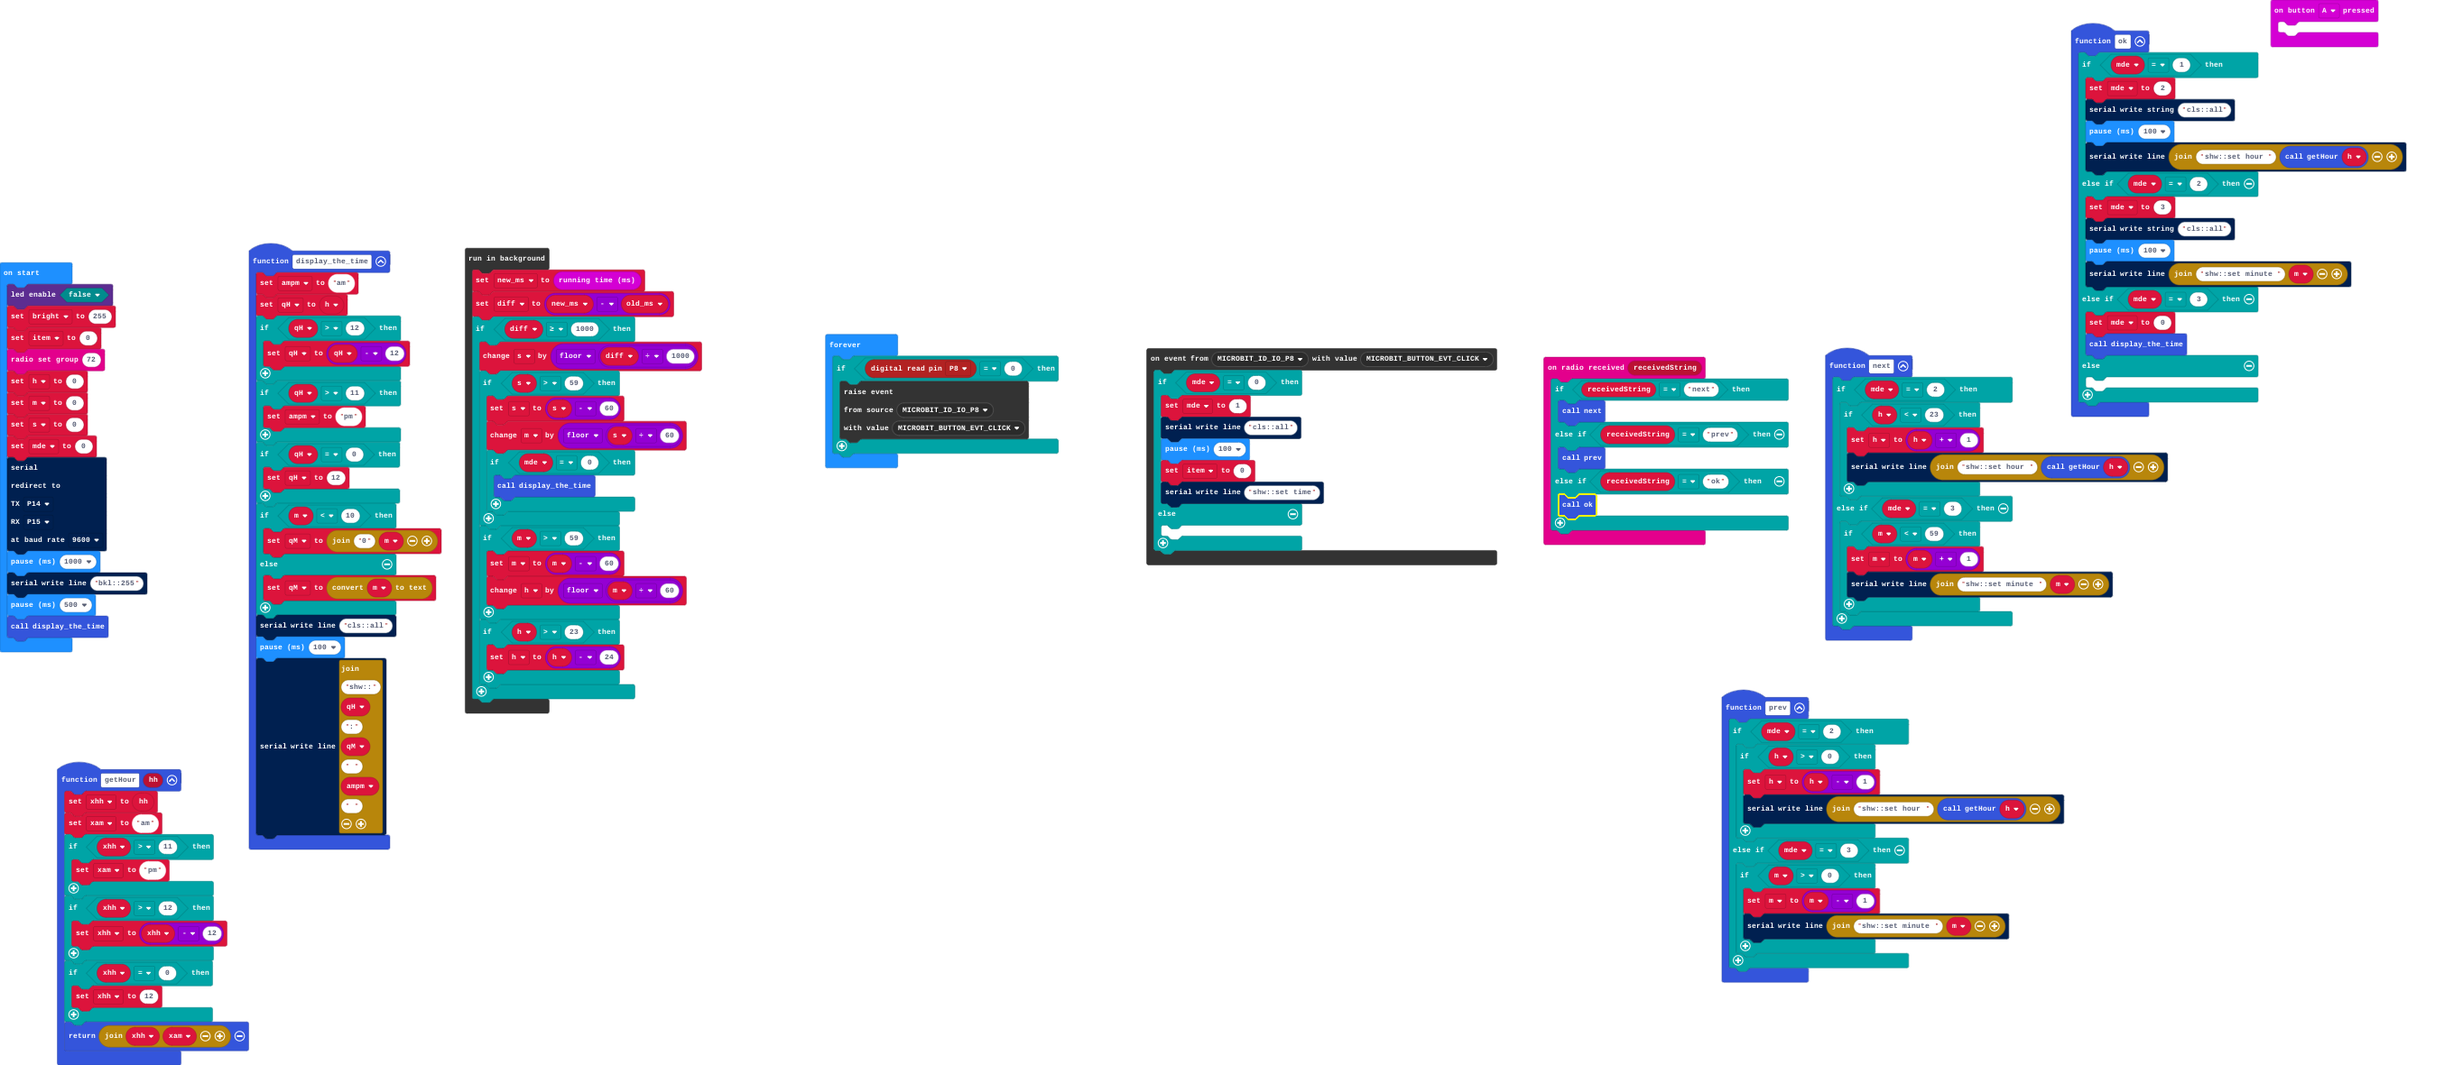
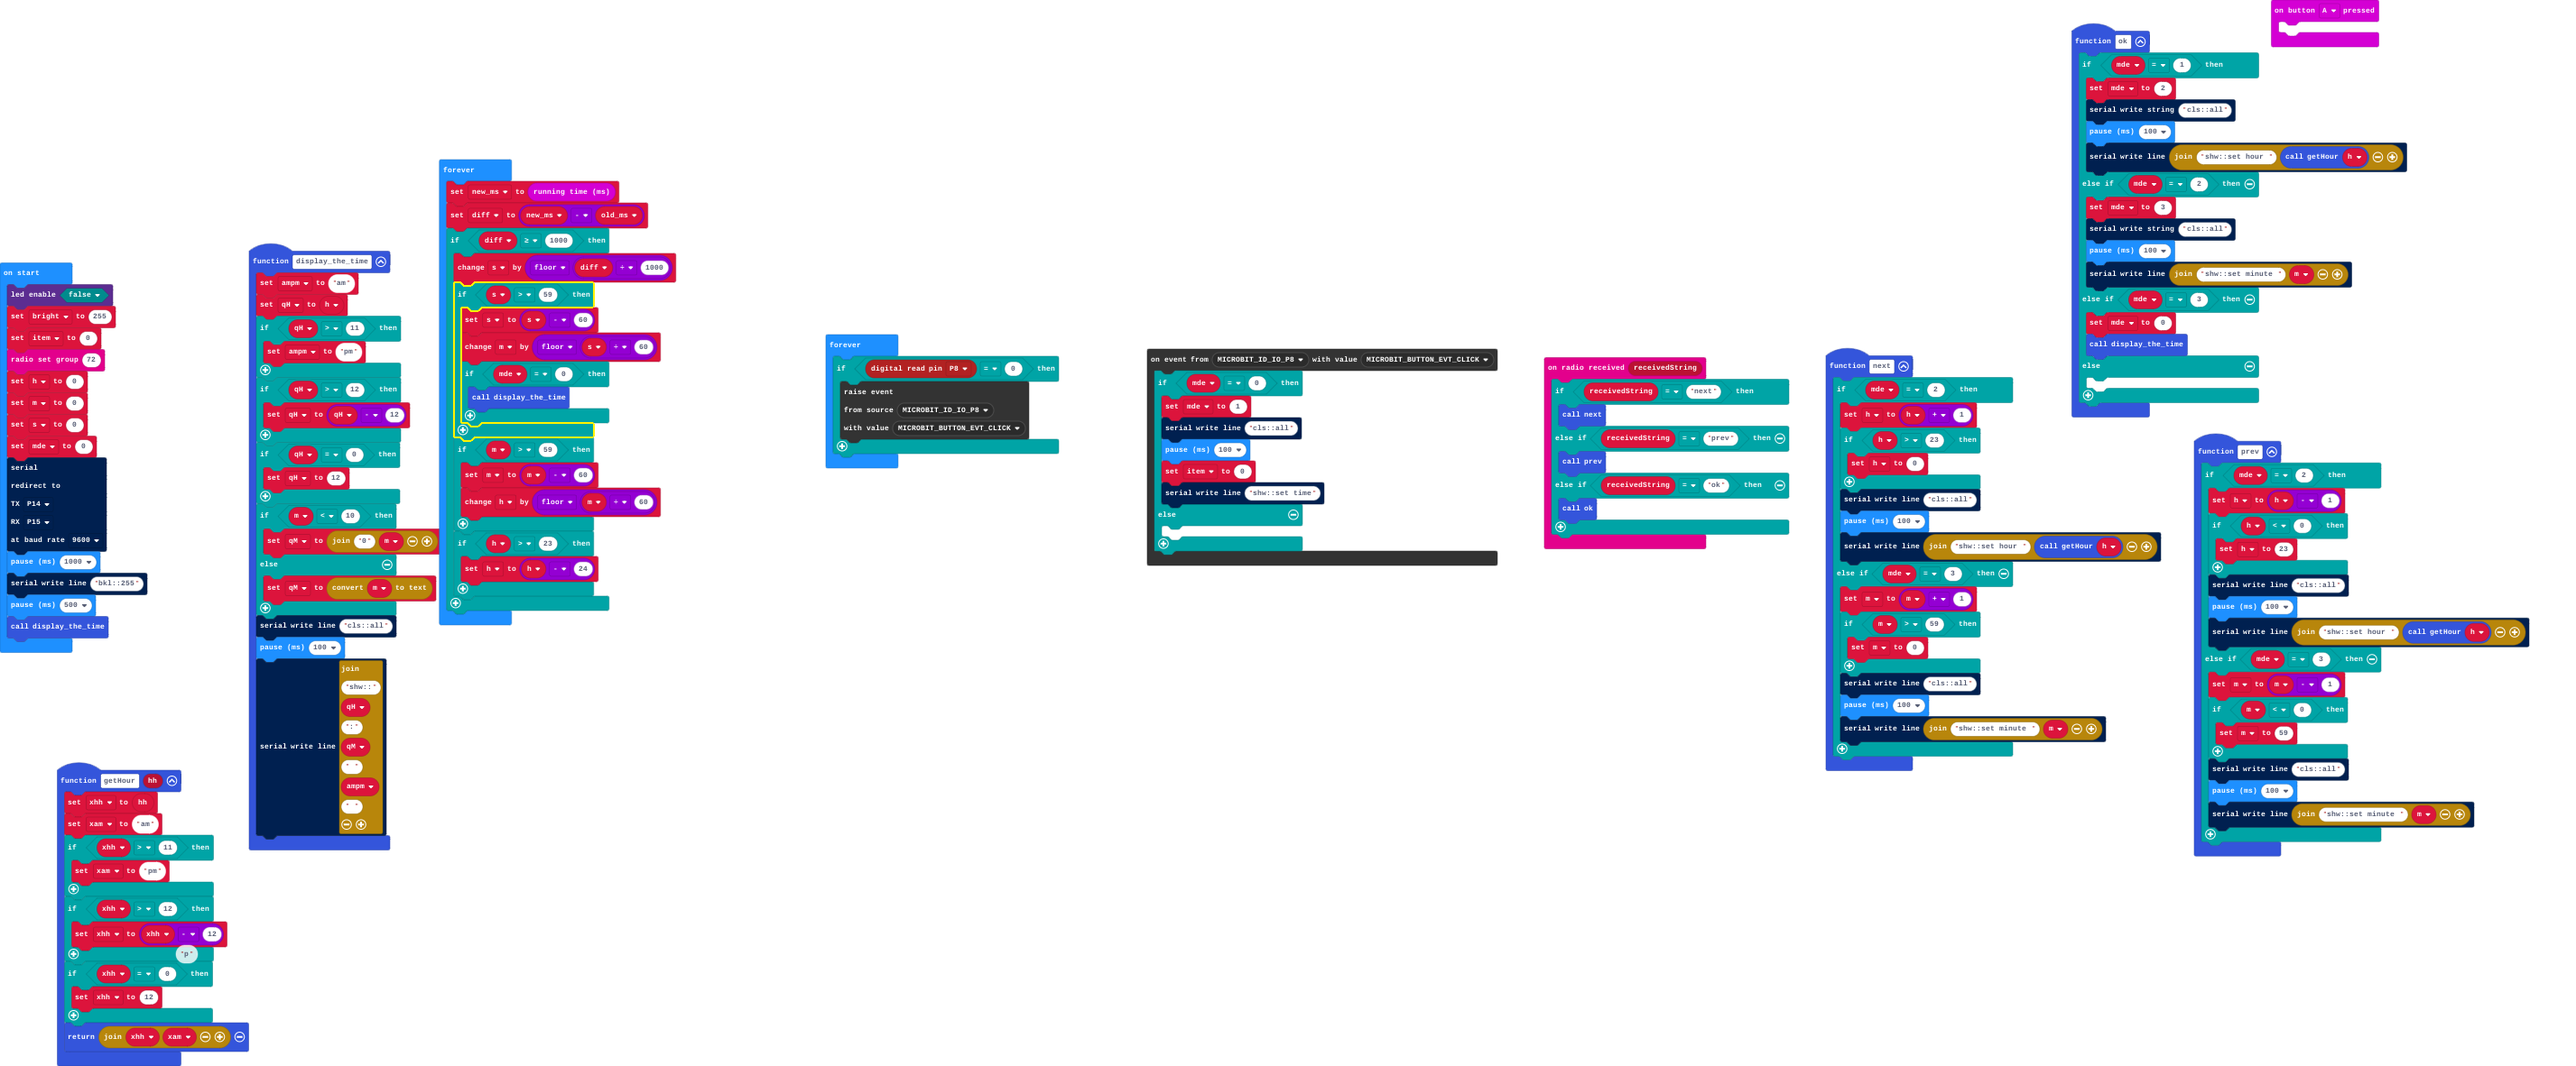
Update main.blocks, main.ts

Changed region(s): [[0.0, 0.0, 0.989, 1.0], [0.0, 0.2439, 0.0618, 0.4572], [0.0, 0.4877, 0.0618, 0.6097]]

diff --git a/main.ts b/main.ts
@@ -1,11 +1,11 @@
 function display_the_time () {
     ampm = "am"
     qH = h
-    if (qH > 12) {
-        qH = qH - 12
-    }
     if (qH > 11) {
         ampm = "pm"
+    }
+    if (qH > 12) {
+        qH = qH - 12
     }
     if (qH == 0) {
         qH = 12
@@ -76,28 +76,40 @@ radio.onReceivedString(function (receivedString) {
 })
 function prev () {
     if (mde == 2) {
-        if (h > 0) {
-            h = h - 1
-            serial.writeLine("shw::set hour " + getHour(h))
+        h = h - 1
+        if (h < 0) {
+            h = 23
         }
+        serial.writeLine("cls::all")
+        basic.pause(100)
+        serial.writeLine("shw::set hour " + getHour(h))
     } else if (mde == 3) {
-        if (m > 0) {
-            m = m - 1
-            serial.writeLine("shw::set minute " + m)
+        m = m - 1
+        if (m < 0) {
+            m = 59
         }
+        serial.writeLine("cls::all")
+        basic.pause(100)
+        serial.writeLine("shw::set minute " + m)
     }
 }
 function next () {
     if (mde == 2) {
-        if (h < 23) {
-            h = h + 1
-            serial.writeLine("shw::set hour " + getHour(h))
+        h = h + 1
+        if (h > 23) {
+            h = 0
         }
+        serial.writeLine("cls::all")
+        basic.pause(100)
+        serial.writeLine("shw::set hour " + getHour(h))
     } else if (mde == 3) {
-        if (m < 59) {
-            m = m + 1
-            serial.writeLine("shw::set minute " + m)
+        m = m + 1
+        if (m > 59) {
+            m = 0
         }
+        serial.writeLine("cls::all")
+        basic.pause(100)
+        serial.writeLine("shw::set minute " + m)
     }
 }
 let diff = 0
@@ -129,14 +141,6 @@ serial.writeLine("bkl::255")
 basic.pause(500)
 display_the_time()
 basic.forever(function () {
-    if (pins.digitalReadPin(DigitalPin.P8) == 0) {
-        control.raiseEvent(
-        EventBusSource.MICROBIT_ID_IO_P8,
-        EventBusValue.MICROBIT_BUTTON_EVT_CLICK
-        )
-    }
-})
-control.inBackground(function () {
     let old_ms = 0
     new_ms = input.runningTime()
     diff = new_ms - old_ms
@@ -156,5 +160,13 @@ control.inBackground(function () {
         if (h > 23) {
             h = h - 24
         }
+    }
+})
+basic.forever(function () {
+    if (pins.digitalReadPin(DigitalPin.P8) == 0) {
+        control.raiseEvent(
+        EventBusSource.MICROBIT_ID_IO_P8,
+        EventBusValue.MICROBIT_BUTTON_EVT_CLICK
+        )
     }
 })
